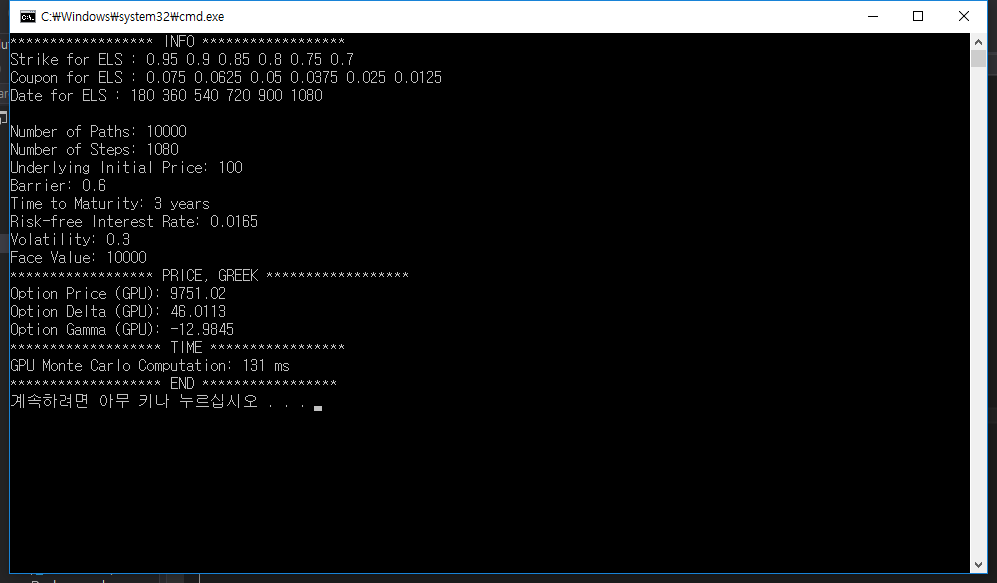
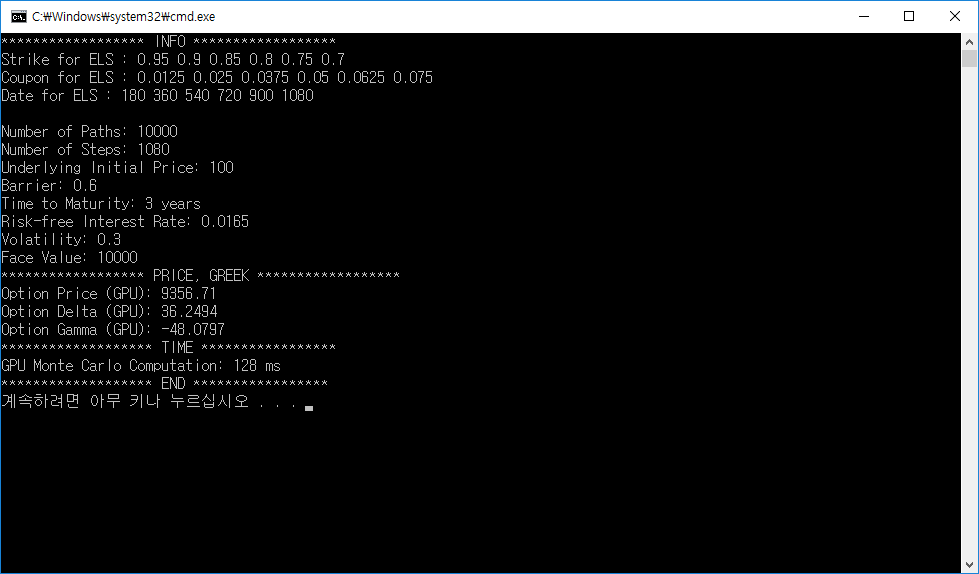
One-asset ELS

Changed region(s): [[0.0, 0.0, 1.0, 1.0]]

diff --git a/one-asset ELS/code/main.cpp b/one-asset ELS/code/main.cpp
@@ -27,10 +27,10 @@ int main() {
 		const double sig1 = 0.3;
 
 		const double r = 0.0165;
-		const double dummy = 0.09;
+		const double dummy = 0.075;
 
 		const double stk[] = { 0.95, 0.9, 0.85, 0.8, 0.75, 0.7};
-		const double coupon[] = { 0.075, 0.0625, 0.05, 0.0375, 0.025, 0.0125 };
+		const double coupon[] = { 0.0125, 0.025, 0.0375, 0.05, 0.0625, 0.075 };
 
 		// this exmample set 6 observation dates.
 		const double date[] = { ceil(N_STEPS * 1.0 / length), ceil(N_STEPS * 2.0 / length), 
